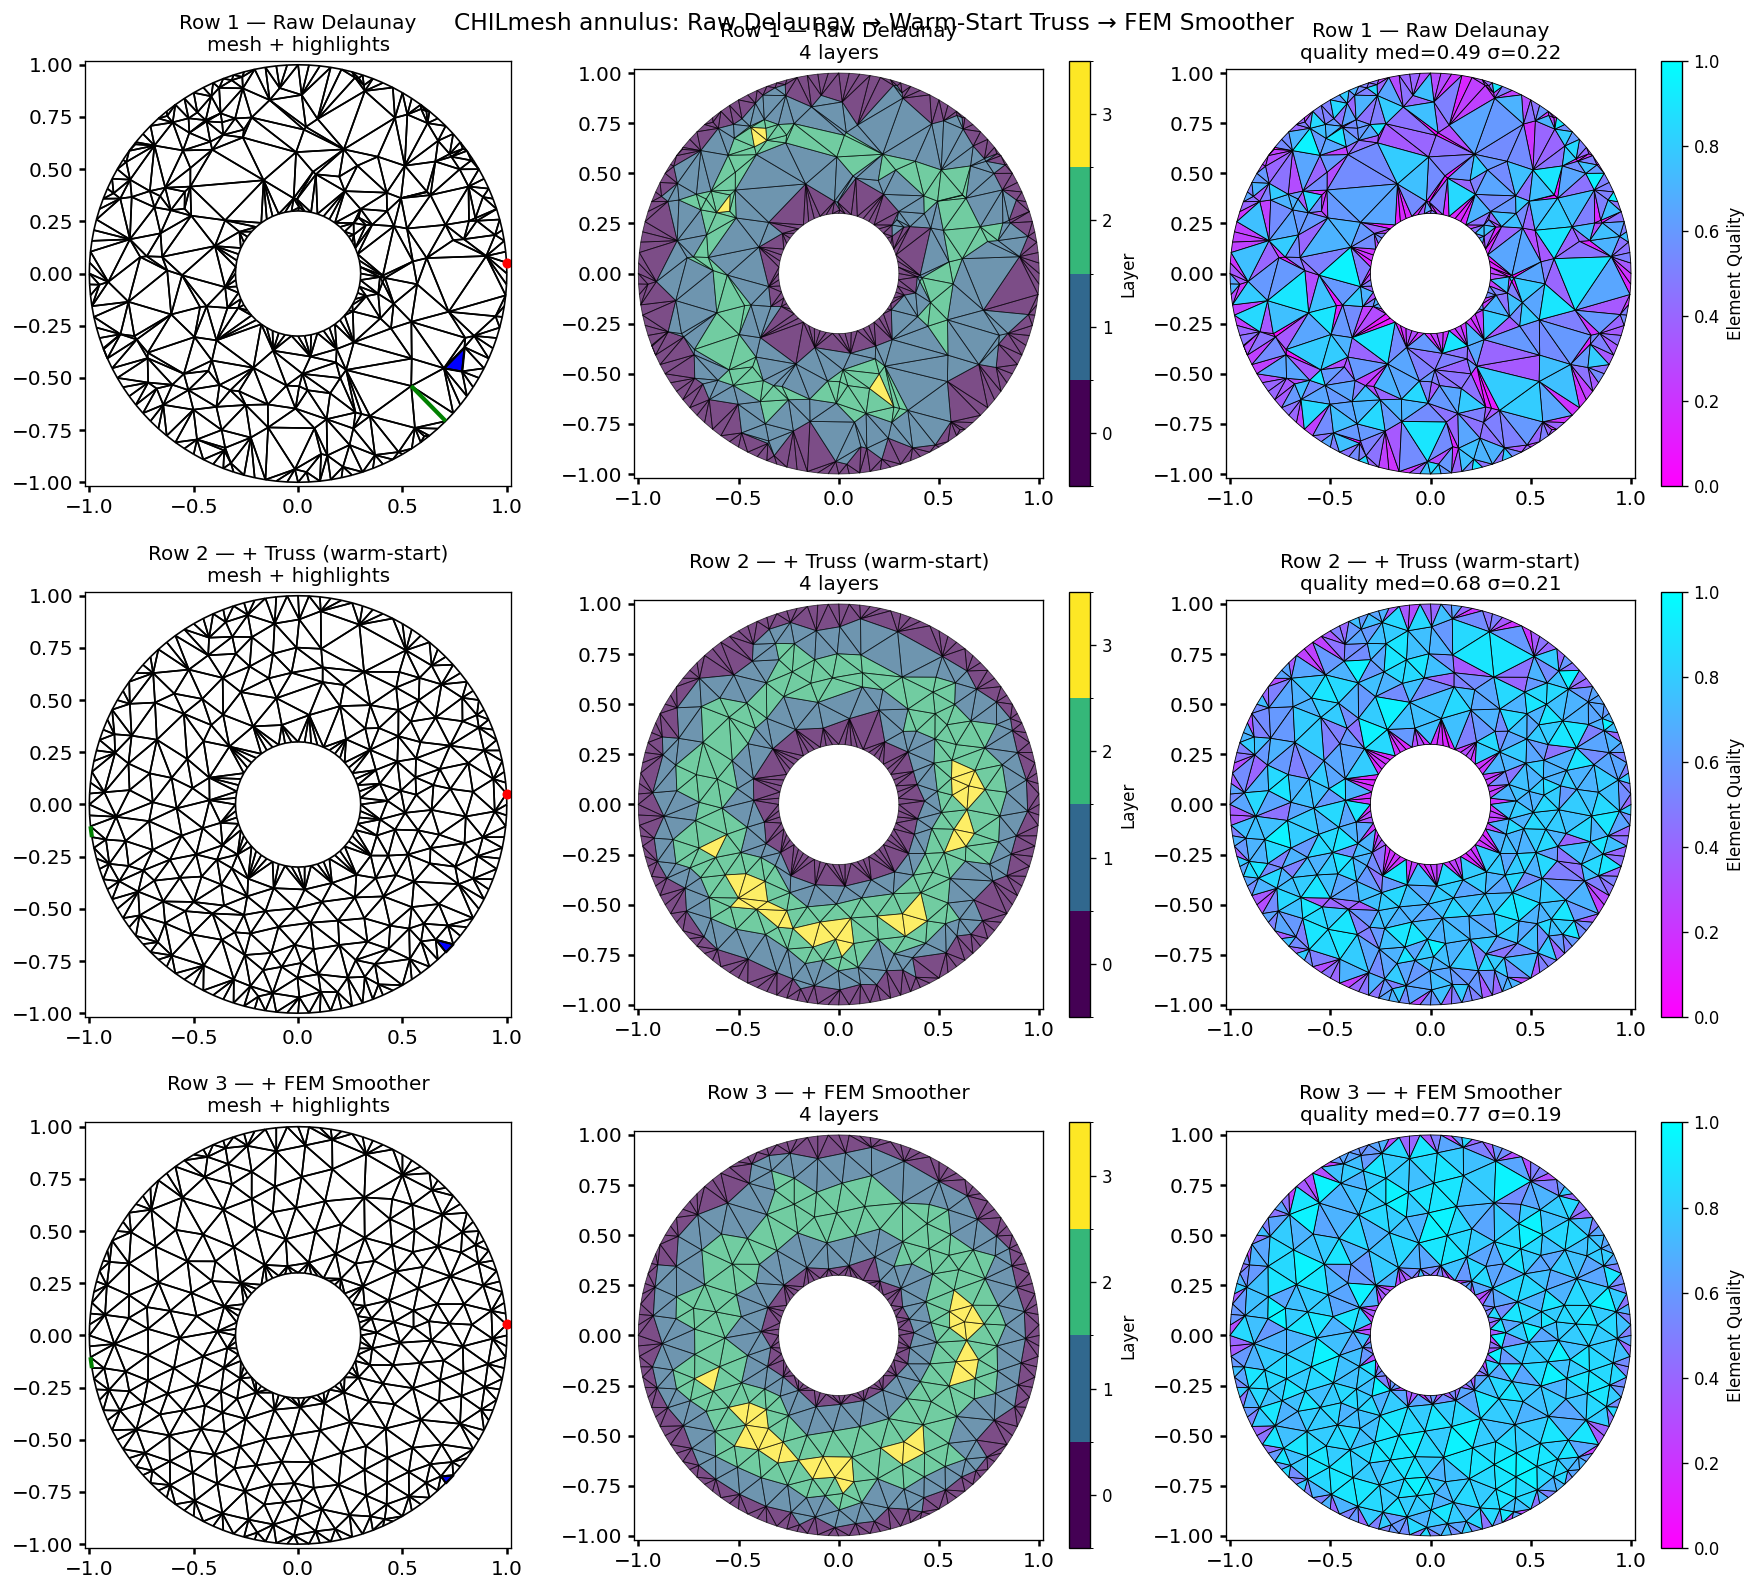
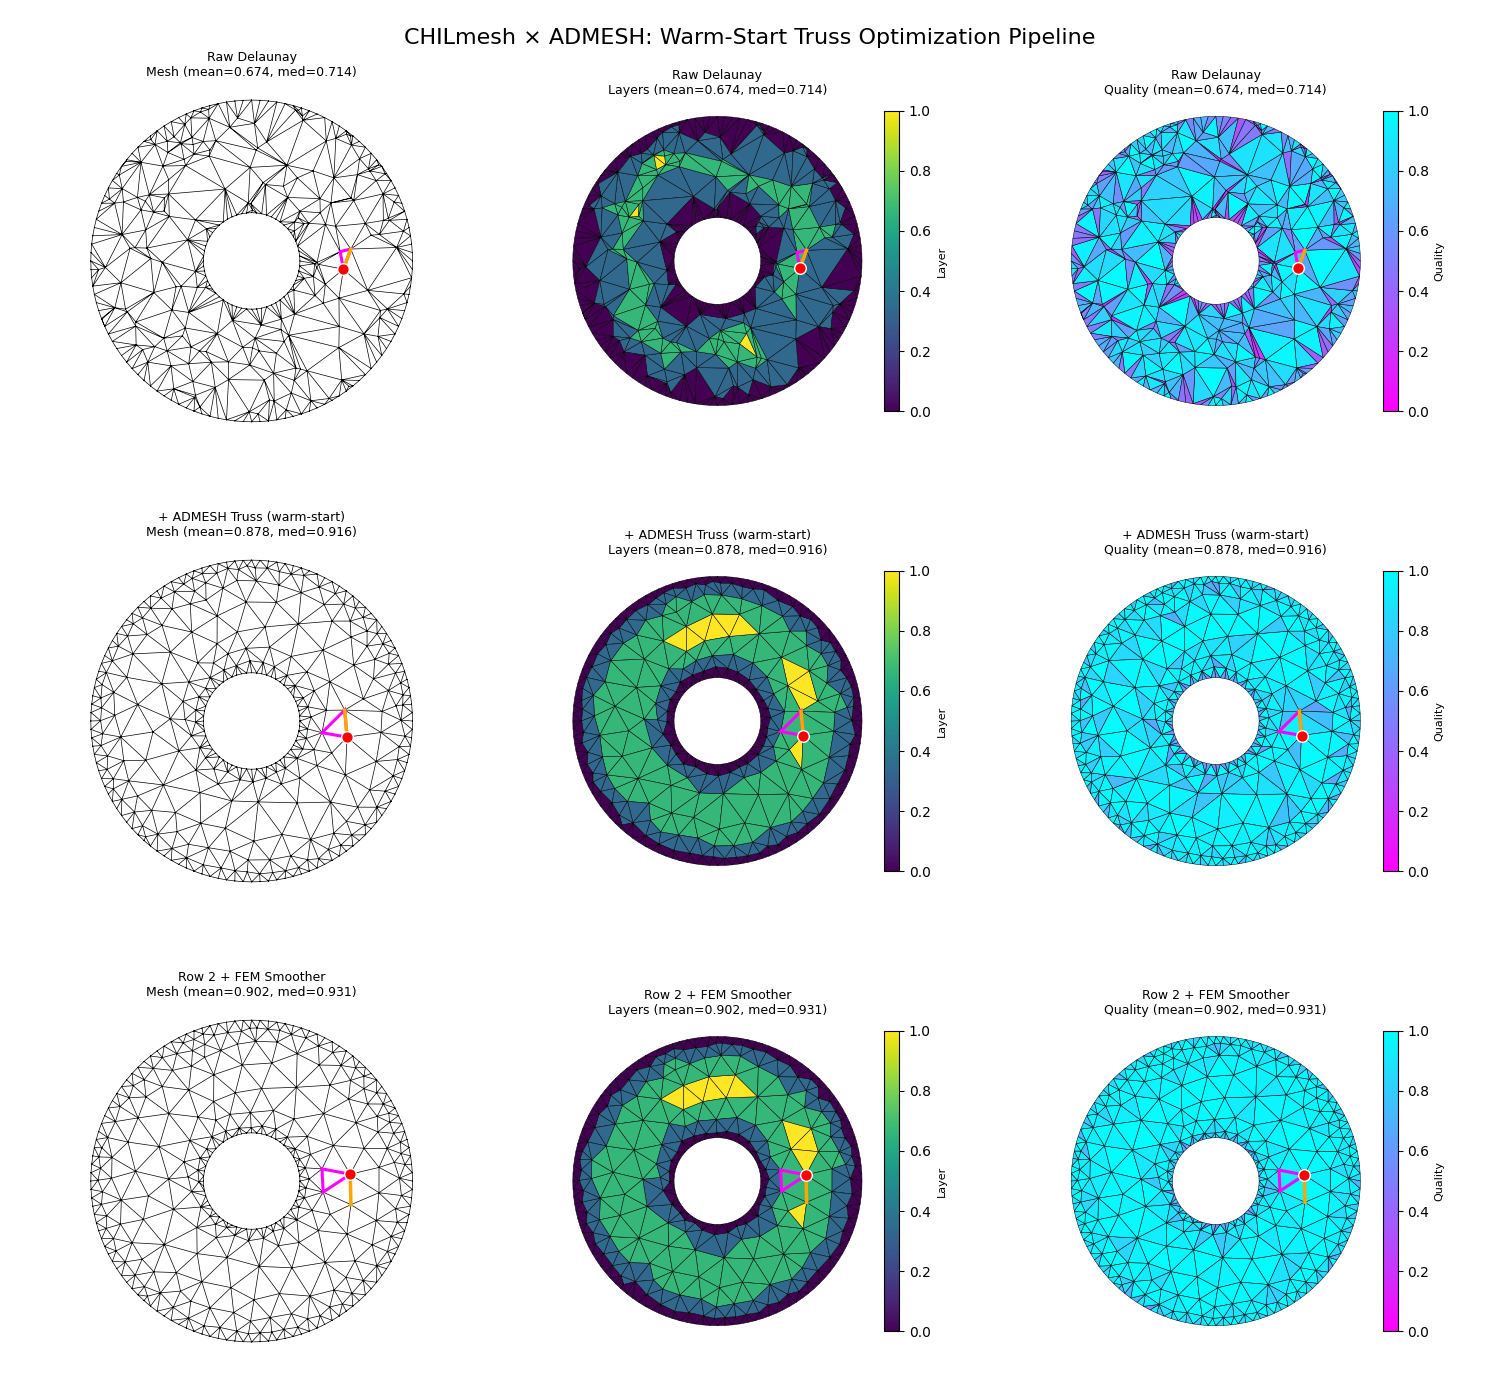
fix(readme): restore script-generated quickstart image as canonical
The README image had reverted to a worse-looking version because the test
and the script both wrote to output/annulus_quickstart.png and whichever
ran last won. Test used uniform sizing + default truss params (med 0.49 →
0.68 → 0.77 with uneven Row 2 layers); script uses graded sizing
(H_MIN=0.05 → H_MAX=0.18) + niter=500 + Fscale=0.5 + dptol=1e-3 (med
0.714 → 0.916 → 0.931 with uniform Row 2).

- Redirect tests/test_readme_quickstart.py to write to tests/output/
  (gitignored) so it can verify rendering without overwriting the
  canonical README image
- Regenerate output/annulus_quickstart.png via the script
- Bump README cache buster ?v=4 → ?v=5 to force GitHub/browser refresh
- Update test docstring to clarify scripts/generate_3row_admesh.py is
  the canonical source per README

Note: Row 2 col 2 still shows minor layer-count irregularity (yellow
patches from compute_layers detecting 4 layers on a graded annulus).
That's a separate layer-detection algorithm question, not a quickstart-
image question.

diff --git a/tests/test_readme_quickstart.py b/tests/test_readme_quickstart.py
@@ -9,8 +9,11 @@ Renders the 3-row pipeline that lives in ``README.md``:
 All three rows use chilmesh's own optimizer — no external admesh package
 required. Each row asserts geometric validity before plotting.
 
-If the test passes, the freshly-generated PNG at ``output/annulus_quickstart.png``
-is the canonical README image.
+The test writes its figure to ``tests/output/annulus_quickstart.png`` to
+verify rendering. The **canonical** README image at
+``output/annulus_quickstart.png`` is produced by
+``scripts/generate_3row_admesh.py`` (graded sizing, Fscale=0.5, niter=500).
+Do not let this test overwrite that path.
 """
 from __future__ import annotations
 
@@ -27,7 +30,7 @@ import chilmesh
 from chilmesh import optimize_with_admesh_truss
 
 REPO_ROOT = Path(__file__).resolve().parent.parent
-OUTPUT_DIR = REPO_ROOT / "output"
+OUTPUT_DIR = REPO_ROOT / "tests" / "output"
 OUTPUT_PNG = OUTPUT_DIR / "annulus_quickstart.png"
 
 _ANNULUS_SDF = lambda p: np.maximum(

diff --git a/README.md b/README.md
@@ -47,7 +47,7 @@ plt.show()
 
 See how a raw Delaunay triangulation is progressively refined through warm-start truss equilibration and FEM smoothing — all three rows share the same boundary and element count (580 triangles):
 
-![CHILmesh quickstart: raw Delaunay → ADMESH warm-start truss → FEM smoother](output/annulus_quickstart.png?v=4)
+![CHILmesh quickstart: raw Delaunay → ADMESH warm-start truss → FEM smoother](output/annulus_quickstart.png?v=5)
 
 **Row 1 — Raw Delaunay:** Unsmoothed input mesh from `chilmesh.examples.annulus()` (median quality ≈ 0.71).
 **Row 2 — Row 1 + ADMESH Truss (warm-start):** Vendored `distmesh2d` truss loop, started from Row 1's points (boundary pinned bit-exactly via `pfix`). The vendored loop tracks the best-quality state across iterations and early-stops if median quality drops more than 10% from peak. Median quality jumps to ≈ 0.94.